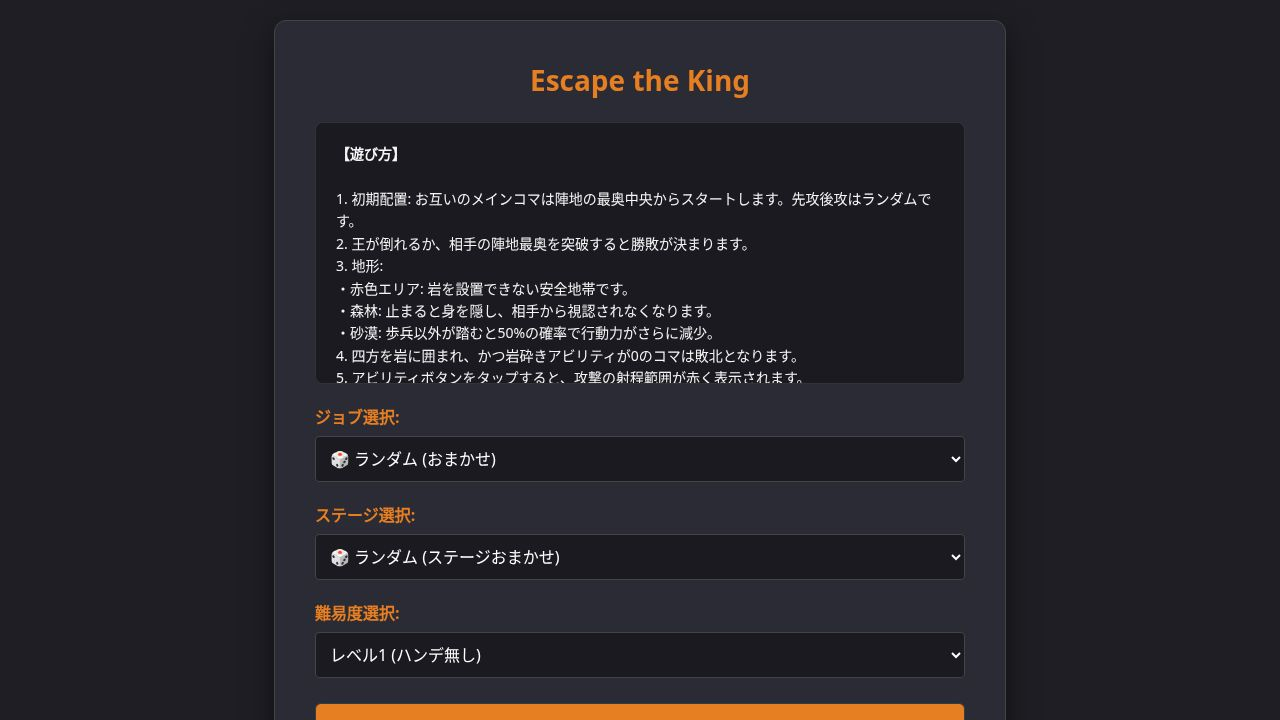
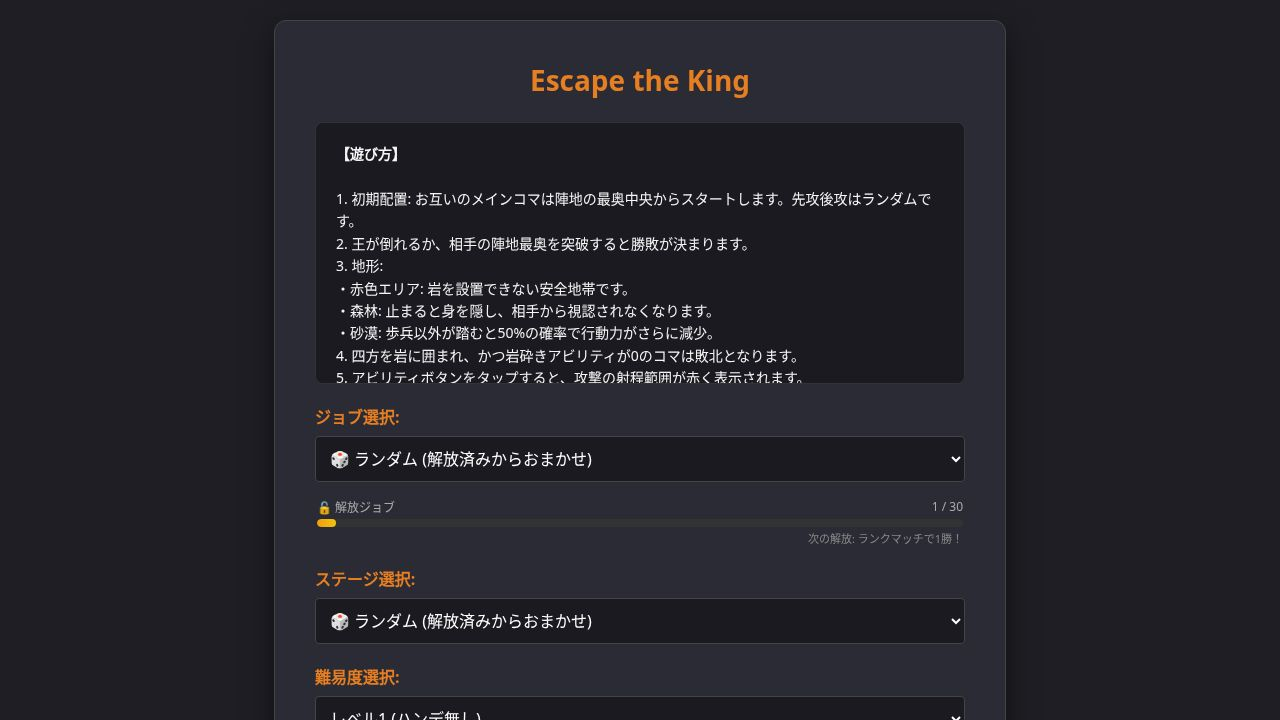
feat: show unlocked job emoji grid in opponent profile popup
Task: 他プレイヤーのプロフィールで解放ジョブ一覧をプレビューできるようにする

Changes:
- artifacts/api-server/src/routes/player.ts: GET /api/profile/:userId now returns
  the full `unlockedJobs` string[] array in addition to the existing `unlockedJobsCount`
  field, so clients can identify exactly which jobs are unlocked.

- artifacts/escape-king/index.html:
  - showOpponentProfile() now renders a flex-wrap emoji grid (one cell per job in
    ALL_JOBS order) inside #pc-jobs instead of just the plain count badge.
  - Unlocked jobs display their emoji from JOB_GUIDE_META with a title tooltip of
    the job's full name (e.g. 👑 = 王).
  - Locked / unknown jobs show "？" in a dim cell with title="未解放", so spoilers
    are avoided.
  - Falls back to unlockedJobsCount if the unlockedJobs array is absent (old API
    responses), keeping backward compatibility.
  - Added CSS classes: .pc-jobs-header, .pc-jobs-grid, .pc-job-cell,
    .pc-job-unlocked, .pc-job-locked.

No schema changes needed — unlockedJobs was already stored in ek_players.

Replit-Task-Id: 775d67c8-7540-4c1d-b23e-7b0b7a967c74

diff --git a/artifacts/escape-king/index.html b/artifacts/escape-king/index.html
@@ -418,6 +418,14 @@
         .pc-jobs-badge { display:inline-block; font-size:13px; color:#2ecc71;
             background:rgba(46,204,113,0.12); border:1px solid rgba(46,204,113,0.35);
             border-radius:12px; padding:3px 12px; }
+        .pc-jobs-header { font-size:12px; color:#2ecc71; margin-bottom:6px; }
+        .pc-jobs-grid { display:flex; flex-wrap:wrap; gap:4px; justify-content:center; }
+        .pc-job-cell { display:inline-flex; align-items:center; justify-content:center;
+            width:28px; height:28px; border-radius:6px; font-size:16px;
+            border:1px solid #333; cursor:default; }
+        .pc-job-unlocked { background:rgba(46,204,113,0.15); border-color:rgba(46,204,113,0.4); }
+        .pc-job-locked { background:rgba(255,255,255,0.04); border-color:#2a2a2a;
+            color:#444; font-size:13px; }
         .lb-fav-btn:hover { opacity:1; }
         .lb-fav-btn.active { opacity:1; }
         .lb-fav-section { margin-top:8px; padding:8px; background:#1a1a28;
@@ -1547,12 +1555,23 @@ async function showOpponentProfile(userId) {
         document.getElementById('pc-wr').textContent = wr;
         document.getElementById('pc-element').textContent = FAV_ELEMENT_LABELS[d.favoriteElement || 'none'] || '—';
         document.getElementById('pc-chars').textContent = tops.length ? 'よく使うキャラ: ' + tops.map(([j,c]) => { const cw = oppCharWins[j]||0; return `${j}×${c}戦${cw>0?` ${cw}勝`:''}`; }).join(' · ') : '';
-        const jc = typeof d.unlockedJobsCount === 'number' ? d.unlockedJobsCount : 0;
+        const opponentUnlocked = Array.isArray(d.unlockedJobs) ? d.unlockedJobs : [];
+        const jc = opponentUnlocked.length > 0 ? opponentUnlocked.length : (typeof d.unlockedJobsCount === 'number' ? d.unlockedJobsCount : 0);
         const total2 = ALL_JOBS.length;
         const pct = Math.round(jc / total2 * 100);
-        document.getElementById('pc-jobs').innerHTML = jc > 0
-            ? `<span class="pc-jobs-badge">🗂️ ジョブ ${jc}/${total2} 解放 (${pct}%)</span>`
-            : '';
+        const gridCells = ALL_JOBS.map(job => {
+            const isUnlocked = opponentUnlocked.includes(job);
+            const emoji = (JOB_GUIDE_META[job] && JOB_GUIDE_META[job].emoji) || '？';
+            const label = (JOB_GUIDE_META[job] && JOB_GUIDE_META[job].fullName) || job;
+            if (isUnlocked) {
+                return `<span class="pc-job-cell pc-job-unlocked" title="${label}">${emoji}</span>`;
+            } else {
+                return `<span class="pc-job-cell pc-job-locked" title="未解放">？</span>`;
+            }
+        }).join('');
+        document.getElementById('pc-jobs').innerHTML =
+            `<div class="pc-jobs-header">🗂️ ジョブ解放 ${jc}/${total2} (${pct}%)</div>` +
+            `<div class="pc-jobs-grid">${gridCells}</div>`;
     } catch(e) {
         document.getElementById('pc-name').textContent = '読み込みに失敗しました';
     }

diff --git a/artifacts/api-server/src/routes/player.ts b/artifacts/api-server/src/routes/player.ts
@@ -189,6 +189,7 @@ router.get("/profile/:userId", async (req, res) => {
       charUsage: (p.charUsage as Record<string, number>) ?? {},
       charWins: (p.charWins as Record<string, number>) ?? {},
       unlockedJobsCount: Array.isArray(p.unlockedJobs) ? (p.unlockedJobs as string[]).length : 0,
+      unlockedJobs: (p.unlockedJobs as string[]) ?? [],
     });
   } catch (e) {
     res.status(500).json({ error: "db error" });